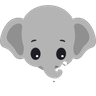
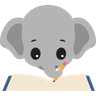
캡슐 아바타 7종 — 지금 내 상태를 엘리가 보여준다
avatar_focus 하나만 쓰던 걸 상태 7종으로 넓혔다. 설계 법칙 그대로 — 엘리는
말하지 않는다(말은 캡슐 글이 한다). 엘리는 지금 내 상태를 **보여줄 뿐**이다.

이미지: set_a의 **몸 + 소품을 합친 뒤** 내용 기준 정사각 크롭 → 96²(5~11KB).
⚠ 몸만 쓰면 공책·폰·책·서류더미·엉킨 실이 빠져 30px에서 상태가 안 읽힌다
(avatar_focus.png도 그래서 다시 만들었다 — 공책이 없었다).

avatarState() 사다리 (앞에서 걸리면 뒤는 안 본다):
1. phone   집중 중 30초 넘게 탭을 떠났다 돌아옴 (복귀 후 2분)
2. focus   집중 재생 중
3. distract 집중을 멈춰 둔 채 (마음이 딴 데)
4. tired   취침 시각 이후~기상 전, 또는 오늘 4시간 넘게 집중
5. refuse  오늘 마감선을 두 번 넘게 그냥 지나침
6. overload 남은 계획이 남은 시간보다 많음
7. messy   담아둔 일은 있는데 오늘 계획이 하나도 없음

⚠ 아바타는 글 회전과 **따로** 갱신한다(paintAvatar): 글은 몇 분에 한 번
돌지만 상태는 ▶를 누른 그 순간 바뀌어야 한다 → renderAll + 30초 타이머.
같은 상태면 <img>를 다시 만들지 않는다(만들면 그림이 한 번 깜빡인다).

검증: node --check · tests 7종 통과 · 콘솔 오류 0. 7가지 상태를 하나씩
만들어 전부 의도대로 뜨는 것 확인(phone은 2분 뒤 focus로 돌아옴), 7장 전부
200 응답, 30px 축소 스트립으로 구분 눈확인.

Changed region(s): [[0.0, 0.75, 1.0, 0.9688], [0.5625, 0.625, 0.7188, 0.75], [0.375, 0.6875, 0.4375, 0.75]]

diff --git a/index.html b/index.html
@@ -6745,7 +6745,8 @@
     clearTimeout(t._h);t._h=setTimeout(function(){t.style.opacity='0';},2600);
   }
   function renderAll(){_tfMap=null;   // 오늘 집중 map 무효화 (B2)
-    renderCalStrips();renderBig();renderMosaic();renderTodo();renderMatrix();renderRoutine();renderBucket();renderDiary();}
+    renderCalStrips();renderBig();renderMosaic();renderTodo();renderMatrix();renderRoutine();renderBucket();renderDiary();
+    paintAvatar();}   // 아바타=지금 내 상태 (▶·완료·계획이 바뀌면 곧바로)
 
   /* ---------- tab + mode switching ---------- */
   function setTab(name){
@@ -7855,11 +7856,18 @@
   }
   (function(){var sc=document.getElementById('tlScroll');
     if(sc)sc.addEventListener('scroll',tlArmIdleScroll,{passive:true});})();
+  var hidAt=0;                 // 집중 중 탭을 떠난 시각 (아바타 'phone' 판정용)
   document.addEventListener('visibilitychange',function(){
     // ⚠ egress: 예전엔 조건 없이 fetchSnapshot()(전체)을 불러, 서버가 안
     // 바뀌었어도 탭을 볼 때마다 스냅샷을 통째로 받았다. pollSync가 이미
     // updated_at 비교로 거르므로 그걸 그대로 쓴다 (바뀌었으면 어차피 받는다).
     if(!document.hidden && session && !pushTimer && !pushing) pollSync();
+    /* 아바타 'phone' 신호 (요청 상태 7종): 집중 중에 탭을 떠났다 돌아오면
+       한동안 '폰 보는 엘리'. ⚠ 30초 미만은 안 센다 — 알림 확인처럼 스치는
+       전환까지 딴짓으로 몰면 억울하다. */
+    if(document.hidden){if(fTask)hidAt=Date.now();return;}
+    if(hidAt&&fTask&&Date.now()-hidAt>=AWAY_MIN_MS){awayAt=Date.now();paintBar(false);}
+    hidAt=0;
   });
   // 몇 초마다 아주 가벼운 updated_at만 조회(≈100바이트)해서, 다른 기기가
   // 바꿨을 때만 전체 스냅샷을 받아온다 (요청: 몇 초 뒤 반영 + egress 최소화).
@@ -8983,6 +8991,7 @@
                                // (다음 단계 '집중 이탈 후 복귀' 트리거용 슬롯)
   var lastMyWordId=null;       // 같은 인용문을 연속으로 두 번 보여주지 않기
   var lastDdayAt=0;            // D-day 마지막 표시 시각 (인메모리, 10분 쿨다운)
+  var avaTimer=null;           // 아바타 상태 재확인 타이머 (글 회전과 별개)
   var DDAY_COOLDOWN_MS=10*60*1000;
 
   /* 오늘 일몰 (없으면 null) — ⚠ 기존 sunTimes를 **재사용**한다. */
@@ -9053,17 +9062,60 @@
     }
     return {txt:'',sub:''};
   }
-  /* 캡슐 아바타 (요청 B) — 진짜 엘리 그림으로 교체 (set_a).
-     ⚠ 상태 7종(focus·phone·distract·overload·messy·tired·refuse)이 다 준비돼
-     있지만 **이번 스코프는 기본값 하나**다. 다음 단계에서 state를 넘겨
-     `assets/avatar_<state>.png`로 바꾸기만 하면 된다 — 그래서 파일명을
-     state로 조립한다.
-     ⚠ 원본은 1024²이라 30px 자리에 그대로 쓰면 낭비다 → 내용 기준 정사각
-     크롭 후 96²로 줄여 담았다(6.9KB). */
+  /* 캡슐 아바타 (요청 B) — 진짜 엘리 그림 (set_a) 7종.
+     ⚠ 원본은 1024²이라 30px 자리에 그대로 쓰면 낭비다 → **몸 + 소품을 합친 뒤**
+     내용 기준 정사각 크롭 후 96²로 줄여 담았다(5~11KB). 몸만 쓰면 공책·폰·
+     책·서류더미·엉킨 실이 빠져 상태가 안 읽힌다(30px에서 눈확인). */
   var AVATAR_STATES=['focus','phone','distract','overload','messy','tired','refuse'];
   function avatarSVG(state){
     var st=(AVATAR_STATES.indexOf(state)>=0)?state:'focus';
     return '<img src="assets/avatar_'+st+'.png" alt="" aria-hidden="true">';
+  }
+  /* 지금 내 상태 → 아바타 (설계 법칙: 엘리는 마스코트가 아니라 **내 마음**이다.
+     말은 캡슐 글이 하고, 엘리는 **보여주기만** 한다).
+     ⚠ 사다리는 '지금 눈앞의 사실'부터 — 집중 중인지가 먼저고, 하루 전체의
+     쌓임(밀림·과부하·어질러짐)은 뒤다. 앞에서 걸리면 뒤는 안 본다. */
+  var awayAt=0;                      // 집중 중 탭을 떠난 시각 (0=안 떠났음)
+  var AWAY_MIN_MS=30*1000;           // 30초 넘게 자리를 비웠을 때만 '딴 데 봤다'
+  var AWAY_SHOW_MS=2*60*1000;        // 복귀 후 2분간만 그 얼굴
+  function avatarState(){
+    // 1. 집중 중인데 자리를 비웠다 돌아왔다 — 폰 보는 얼굴 (잠깐만).
+    if(fTask&&awayAt&&Date.now()-awayAt<=AWAY_SHOW_MS)return 'phone';
+    // 2·3. 집중 중 / 집중을 멈춰 둔 채 (마음이 딴 데 갔다).
+    if(fTask)return fPaused?'distract':'focus';
+    var tasks=(DATA.tasks||[]).filter(function(t){return !t.isRewardItem;});
+    var open=tasks.filter(function(t){return !t.isDone;});
+    // 4. 늦은 시각(취침 이후~새벽) 또는 오늘 4시간 넘게 집중 — 지친 얼굴.
+    var S=DATA.settings||{},bedH=Math.floor((S.bedMinutes!=null?S.bedMinutes:1380)/60);
+    var wakeH=Math.floor((S.wakeMinutes!=null?S.wakeMinutes:420)/60);
+    var h=new Date().getHours();
+    if(h>=bedH||h<wakeH)return 'tired';
+    var focSec=0;var fm=todayFocusMap();for(var k in fm)focSec+=fm[k];
+    if(focSec>=4*3600)return 'tired';
+    // 5. 오늘 마감선을 두 번 넘게 그냥 지나쳤다 — 등 돌린 얼굴.
+    var now=Date.now(),tk=todayKey();
+    var missed=open.filter(function(t){
+      return t.scheduledStart&&(t.durationMin||0)>0&&
+             dateKey(taskDueAt(t).toISOString())===tk&&taskDueAt(t).getTime()<now;}).length;
+    if(missed>=2)return 'refuse';
+    // 6. 남은 계획이 남은 시간보다 많다 — 서류에 파묻힌 얼굴.
+    var planMin=0;
+    open.forEach(function(t){if(t.scheduledStart&&(t.durationMin||0)>0&&
+      dateKey(taskDueAt(t).toISOString())===tk)planMin+=goalRemainMin(t);});
+    var leftMin=Math.max(0,bedH*60-(new Date().getHours()*60+new Date().getMinutes()));
+    if(planMin>0&&planMin>leftMin)return 'overload';
+    // 7. 담아둔 일은 있는데 오늘 아무것도 계획하지 않았다 — 엉킨 실.
+    if(open.length&&!open.some(function(t){return t.scheduledStart&&(t.durationMin||0)>0;}))
+      return 'messy';
+    return 'focus';
+  }
+  /* 아바타만 다시 그린다 — 글은 몇 분에 한 번 도는데(회전) 상태는 ▶를 누른
+     그 순간 바뀌어야 한다. ⚠ 같은 상태면 <img>를 다시 만들지 않는다: 캐시에서
+     오더라도 새로 만들면 그림이 한 번 깜빡인다. */
+  function paintAvatar(){
+    var ava=document.getElementById('tcAva');if(!ava)return;
+    var st=avatarState();
+    if(ava.dataset.state!==st){ava.dataset.state=st;ava.innerHTML=avatarSVG(st);}
   }
   /* 앱 AppState.planDeadline 대응 — 오늘 마지막 마감선 시각 (없으면 null). */
   function planDeadlineAt(){
@@ -9209,8 +9261,7 @@
       c=capContent(keys[barIdx]);
     }
     // 아바타가 있으면 작은 아이콘은 중복이라 숨긴다 (요청 B).
-    var ava=document.getElementById('tcAva');
-    ava.innerHTML=avatarSVG('default');
+    paintAvatar();
     document.getElementById('tcIc').style.display='none';
     // 귀속 줄은 **자리가 있을 때만** — 2줄 캡슐(모바일)에서만 그린다.
     // 데스크톱은 캡슐이 한 줄짜리 좁은 알약이라 인용문만 남긴다.
@@ -9229,6 +9280,10 @@
   function startBarRotation(){
     if(barTimer)clearInterval(barTimer);
     barIdx=0;paintBar(false);
+    /* 상태는 시간이 흘러도 바뀐다(취침 시각·마감 지남·집중 4시간) — 글 회전과
+       따로 30초마다 아바타만 다시 본다. 같은 상태면 DOM을 안 건드린다. */
+    if(avaTimer)clearInterval(avaTimer);
+    avaTimer=setInterval(paintAvatar,30000);
     var keys=capPool();if(keys.length<2)return;
     var per=setChipIntervalMin()*60000;
     barTimer=setInterval(barAdvance,per);
